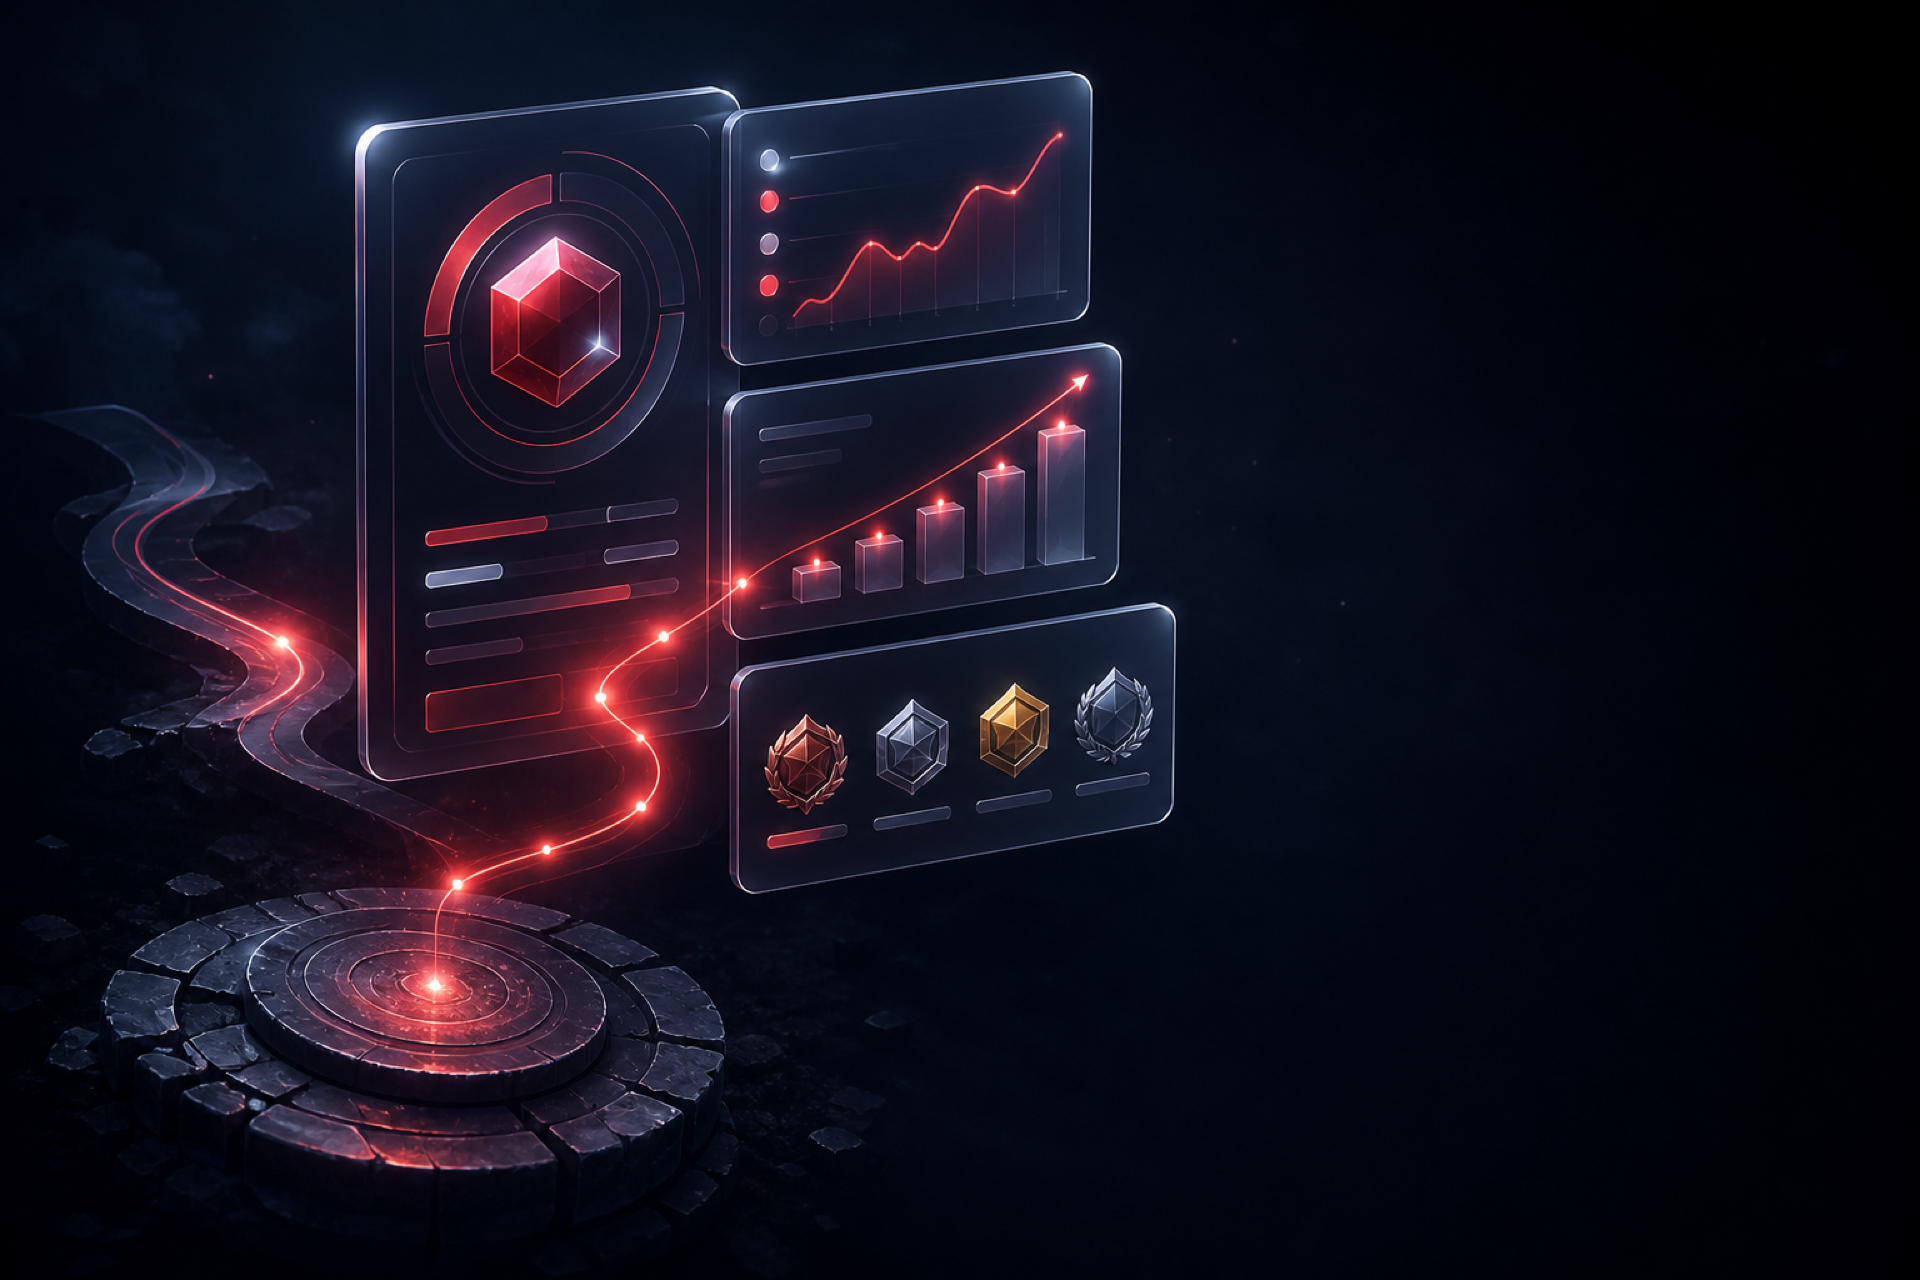
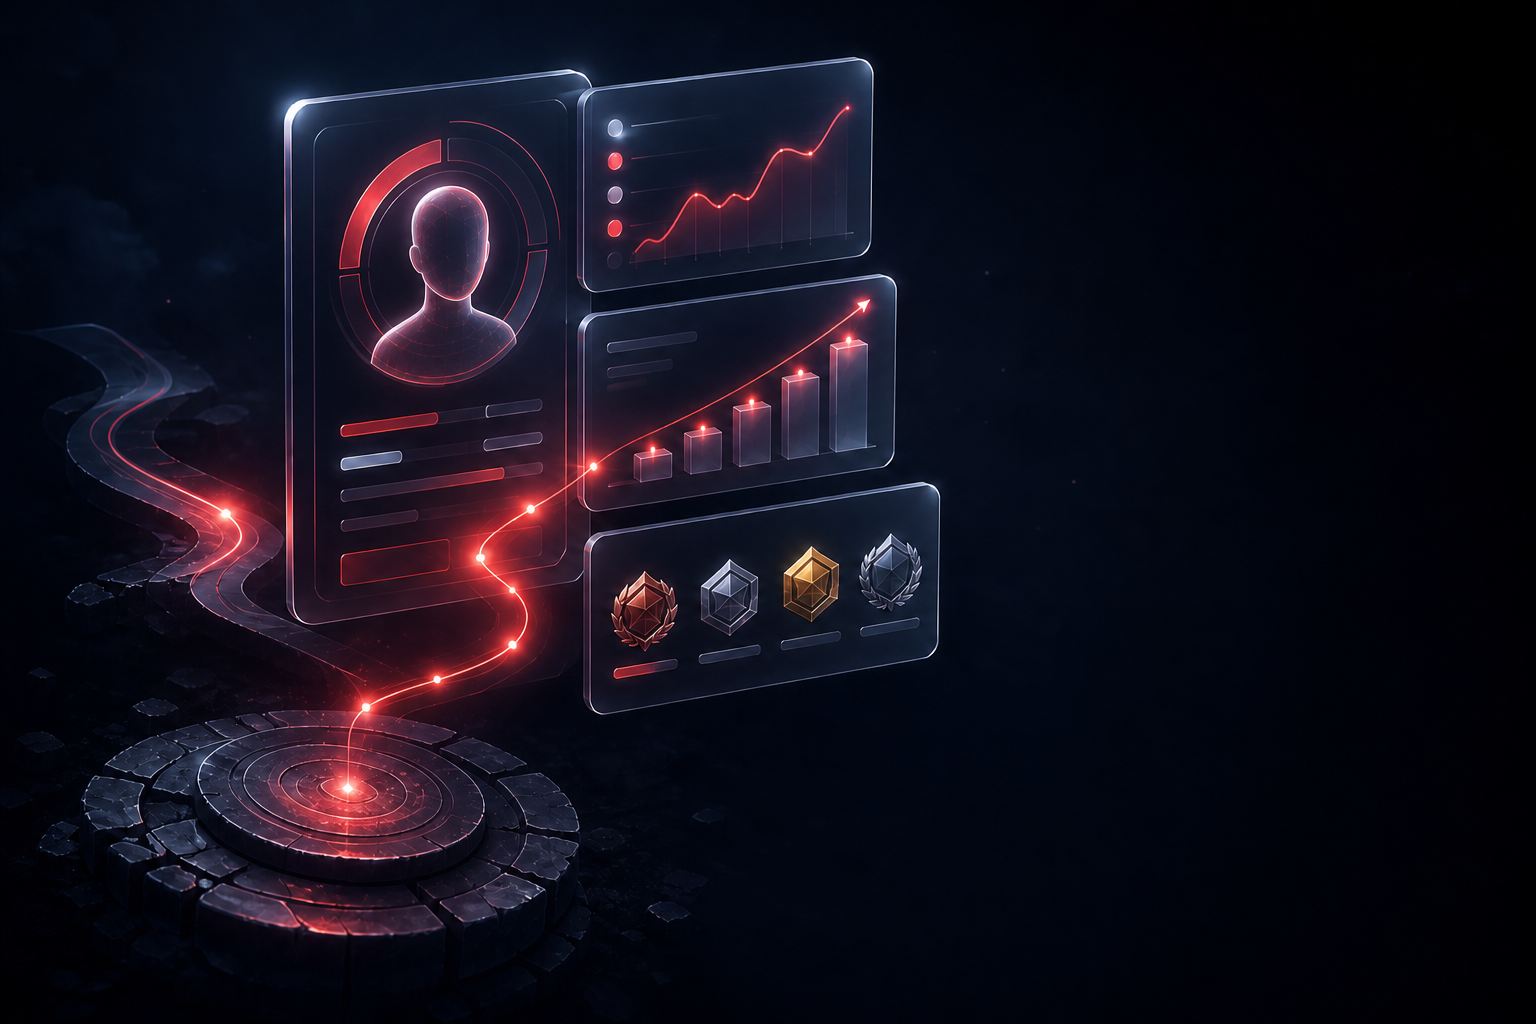
Blend player visual into copy

diff --git a/padbol-match-frontend/src/pages/publicSite/publicSite.css b/padbol-match-frontend/src/pages/publicSite/publicSite.css
@@ -1453,19 +1453,33 @@ html.public-site-active #root {
 }
 
 .ps-player-record__layout {
+  position: relative;
   display: grid;
   grid-template-columns: minmax(340px, .8fr) minmax(0, 1.2fr);
   gap: 46px;
   align-items: center;
 }
 
+.ps-player-record__layout::before {
+  position: absolute;
+  z-index: 0;
+  top: 54%;
+  left: 18%;
+  width: 58%;
+  height: 2px;
+  content: '';
+  background: linear-gradient(90deg, rgba(225, 27, 34, 0), rgba(255, 86, 94, .86) 24%, rgba(255, 194, 198, .72) 58%, rgba(225, 27, 34, 0));
+  box-shadow: 0 0 14px rgba(225, 27, 34, .7), 0 0 34px rgba(225, 27, 34, .24);
+  transform: rotate(-3deg);
+  pointer-events: none;
+}
+
 .ps-player-record__visual {
   position: relative;
+  z-index: 1;
   min-height: 420px;
   margin: 0;
-  overflow: hidden;
-  border-radius: 4px;
-  background: #060a12;
+  overflow: visible;
 }
 
 .ps-player-record__visual::after {
@@ -1473,15 +1487,18 @@ html.public-site-active #root {
   inset: 0;
   content: '';
   pointer-events: none;
-  background: linear-gradient(180deg, transparent 46%, rgba(5, 8, 15, .16) 62%, #060a12 100%);
+  background: linear-gradient(180deg, transparent 46%, rgba(5, 8, 15, .1) 62%, var(--ps-bg) 100%);
 }
 
 .ps-player-record__visual img {
   display: block;
   width: 100%;
   height: 100%;
+  mix-blend-mode: screen;
   object-fit: cover;
   object-position: 36% center;
+  -webkit-mask-image: linear-gradient(90deg, #000 0%, #000 68%, rgba(0, 0, 0, .88) 79%, transparent 100%);
+  mask-image: linear-gradient(90deg, #000 0%, #000 68%, rgba(0, 0, 0, .88) 79%, transparent 100%);
 }
 
 .ps-player-record__visual figcaption {
@@ -1496,6 +1513,11 @@ html.public-site-active #root {
   letter-spacing: .16em;
   line-height: 1.55;
   text-transform: uppercase;
+}
+
+.ps-player-record__layout > div {
+  position: relative;
+  z-index: 1;
 }
 
 .ps-player-record__layout h2 { max-width: 760px; }
@@ -4993,7 +5015,10 @@ html.public-site-active #root {
   .ps-player-record__visual {
     min-height: 310px;
     margin: 0 0 26px;
+    overflow: hidden;
   }
+
+  .ps-player-record__layout::before { display: none; }
 
   .ps-player-record__visual figcaption {
     right: 20px;

diff --git a/padbol-match-frontend/public/sw.js b/padbol-match-frontend/public/sw.js
@@ -8,7 +8,7 @@
  * - /static/* hasheado: cache-first (immutable).
  * - Iconos/manifest: cache-first con revalidación al fallar red.
  */
-const CACHE_VERSION = 'pwa-1786811347088';
+const CACHE_VERSION = 'pwa-1786813107639';
 
 /** postMessage al cliente cuando se reemplazó una caché anterior (actualización real). */
 const MSG_UPDATED = 'PM_SW_UPDATED';

diff --git a/padbol-match-frontend/src/pwaBuildId.js b/padbol-match-frontend/src/pwaBuildId.js
@@ -1,2 +1,2 @@
 /* Auto-generado por scripts/emit-pwa-build-id.js (prebuild/prestart) — no editar a mano */
-export const PWA_BUILD_ID = "pwa-1786811347088";
+export const PWA_BUILD_ID = "pwa-1786813107639";
